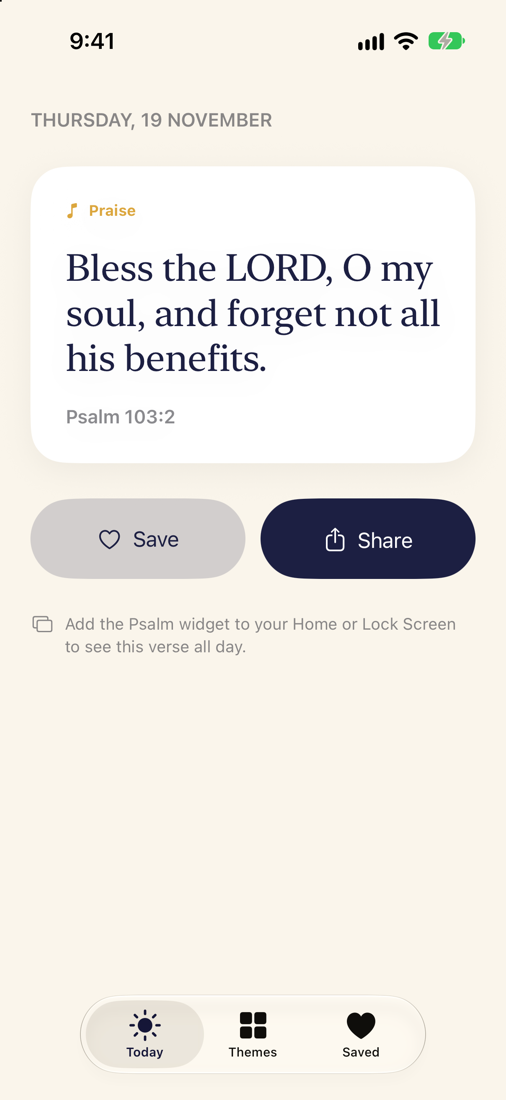
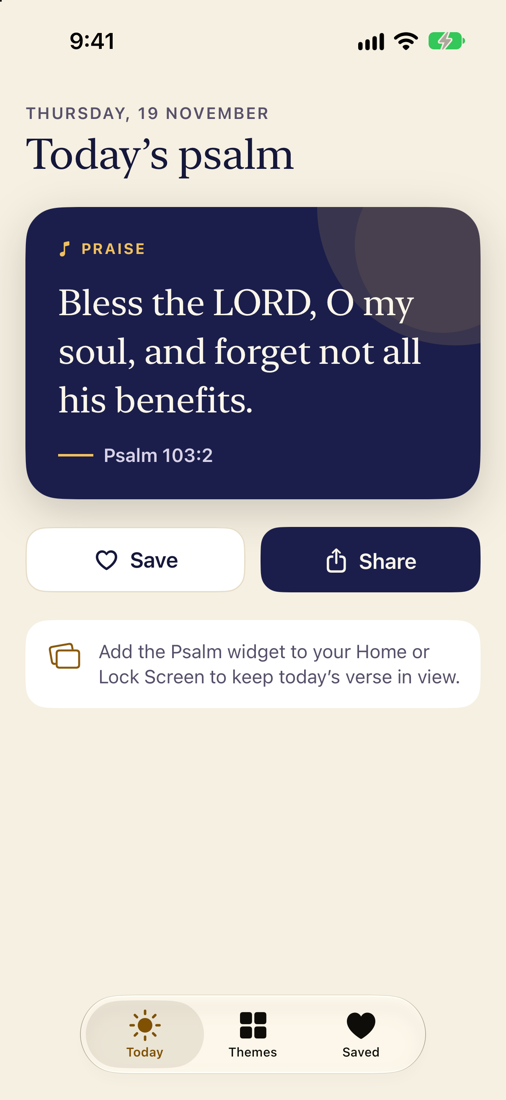
Psalm: screenshots of the new light and dark design

diff --git a/data/projects.ts b/data/projects.ts
@@ -375,6 +375,7 @@ export const projects: Project[] = [
       "Home Screen and Lock Screen widgets",
       "Browse by theme: peace, strength, trust, praise, morning, rest",
       "Save and share verses",
+      "Accessible colours in light and dark mode (WCAG AA)",
       "3-page onboarding",
       "6 XCTest tests",
     ],
@@ -388,7 +389,8 @@ export const projects: Project[] = [
       "/projects/psalm/screen-1-today.png",
       "/projects/psalm/screen-2-themes.png",
       "/projects/psalm/screen-3-saved.png",
-      "/projects/psalm/screen-4-onboarding.png",
+      "/projects/psalm/screen-4-today-dark.png",
+      "/projects/psalm/screen-5-onboarding.png",
     ],
     links: {},
   },
